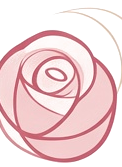
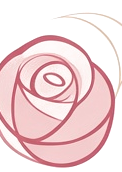
Aumenta a rosa d'água e corrige o recorte cortado na borda
Recorta a rosa novamente incluindo o floreio decorativo completo
sem pegar pedaços das letras vizinhas, e aumenta bastante o tamanho
(até 34rem em telas maiores), cobrindo boa parte da área de contato
no canto inferior direito.

Claude-Session: https://claude.ai/code/session_012i3BJUCwvzr2TBwbYksPCY

Changed region(s): [[0.0, 0.0299, 1.0, 0.988], [0.5656, 0.9281, 0.5902, 0.9581]]

diff --git a/components/contact-section.tsx b/components/contact-section.tsx
@@ -11,9 +11,9 @@ export function ContactSection() {
         src="/images/rose-watermark.png"
         alt=""
         aria-hidden="true"
-        width={137}
-        height={167}
-        className="pointer-events-none absolute -bottom-10 -right-10 h-64 w-auto opacity-15 sm:h-80"
+        width={122}
+        height={172}
+        className="pointer-events-none absolute -bottom-16 -right-16 h-[26rem] w-auto opacity-20 sm:-right-10 sm:h-[34rem]"
       />
 
       <div className="relative mx-auto max-w-7xl border-t border-border px-4 pt-14 md:px-6">
